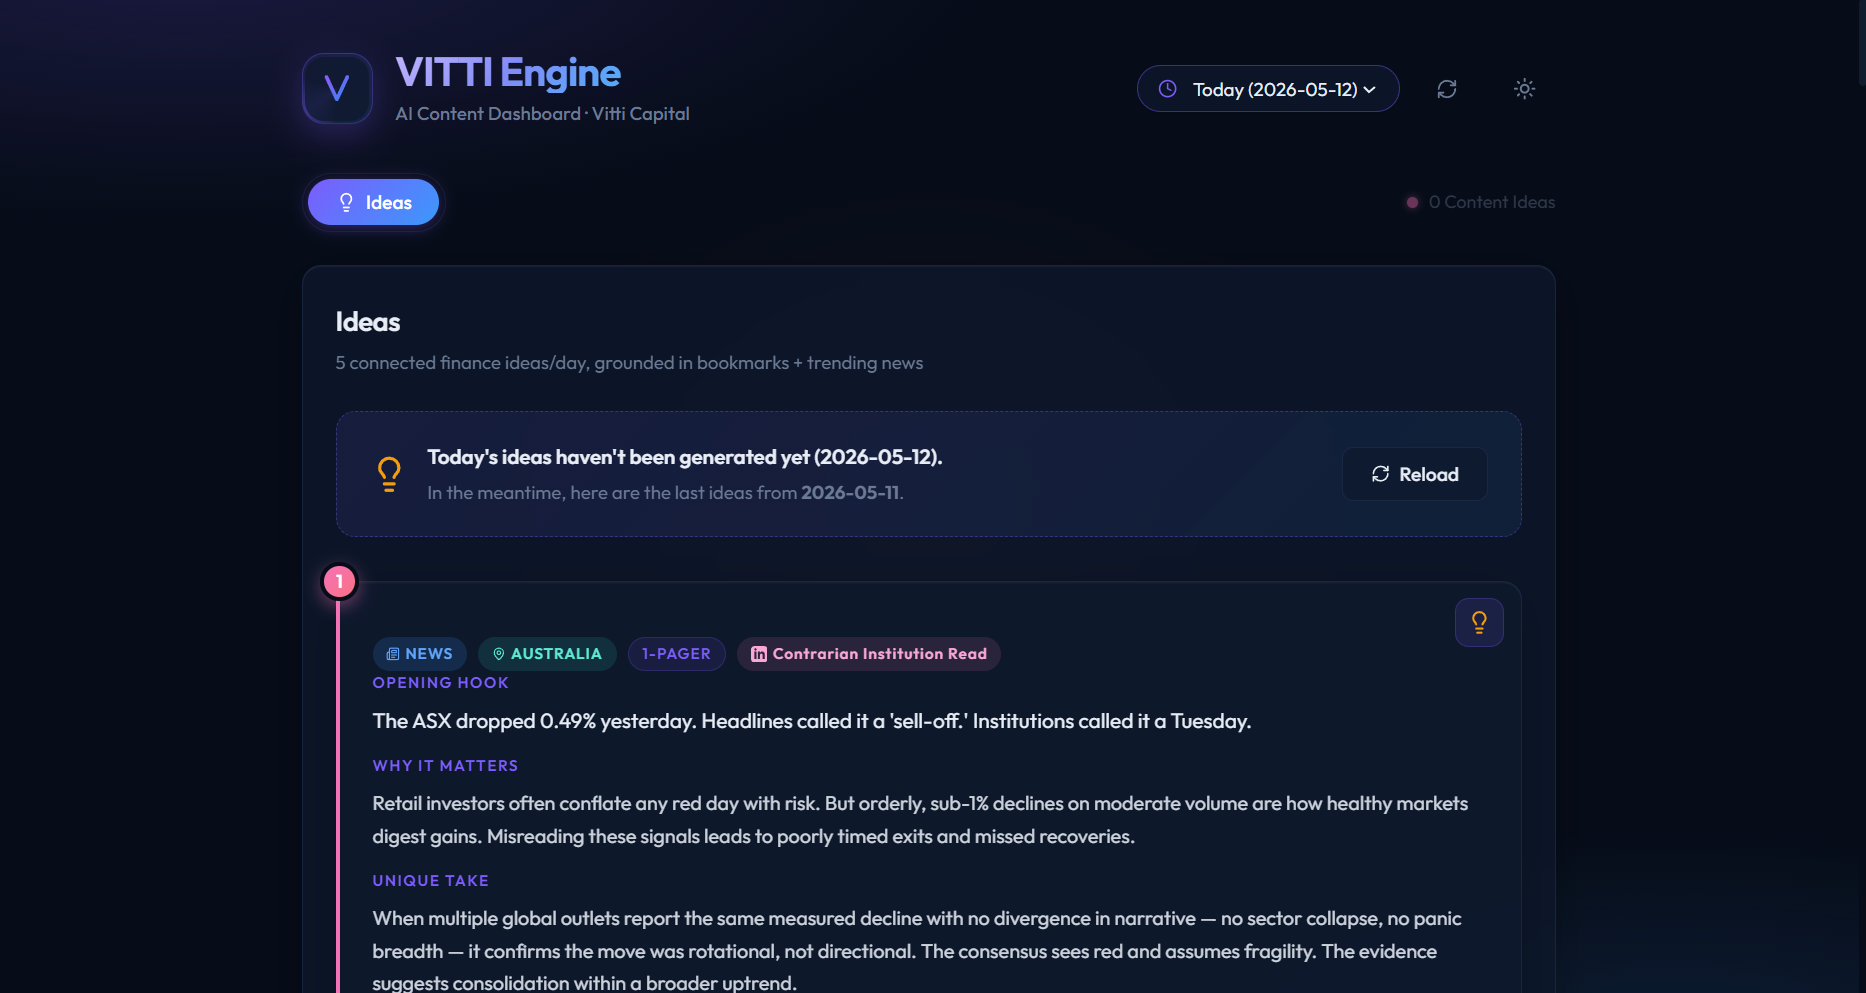
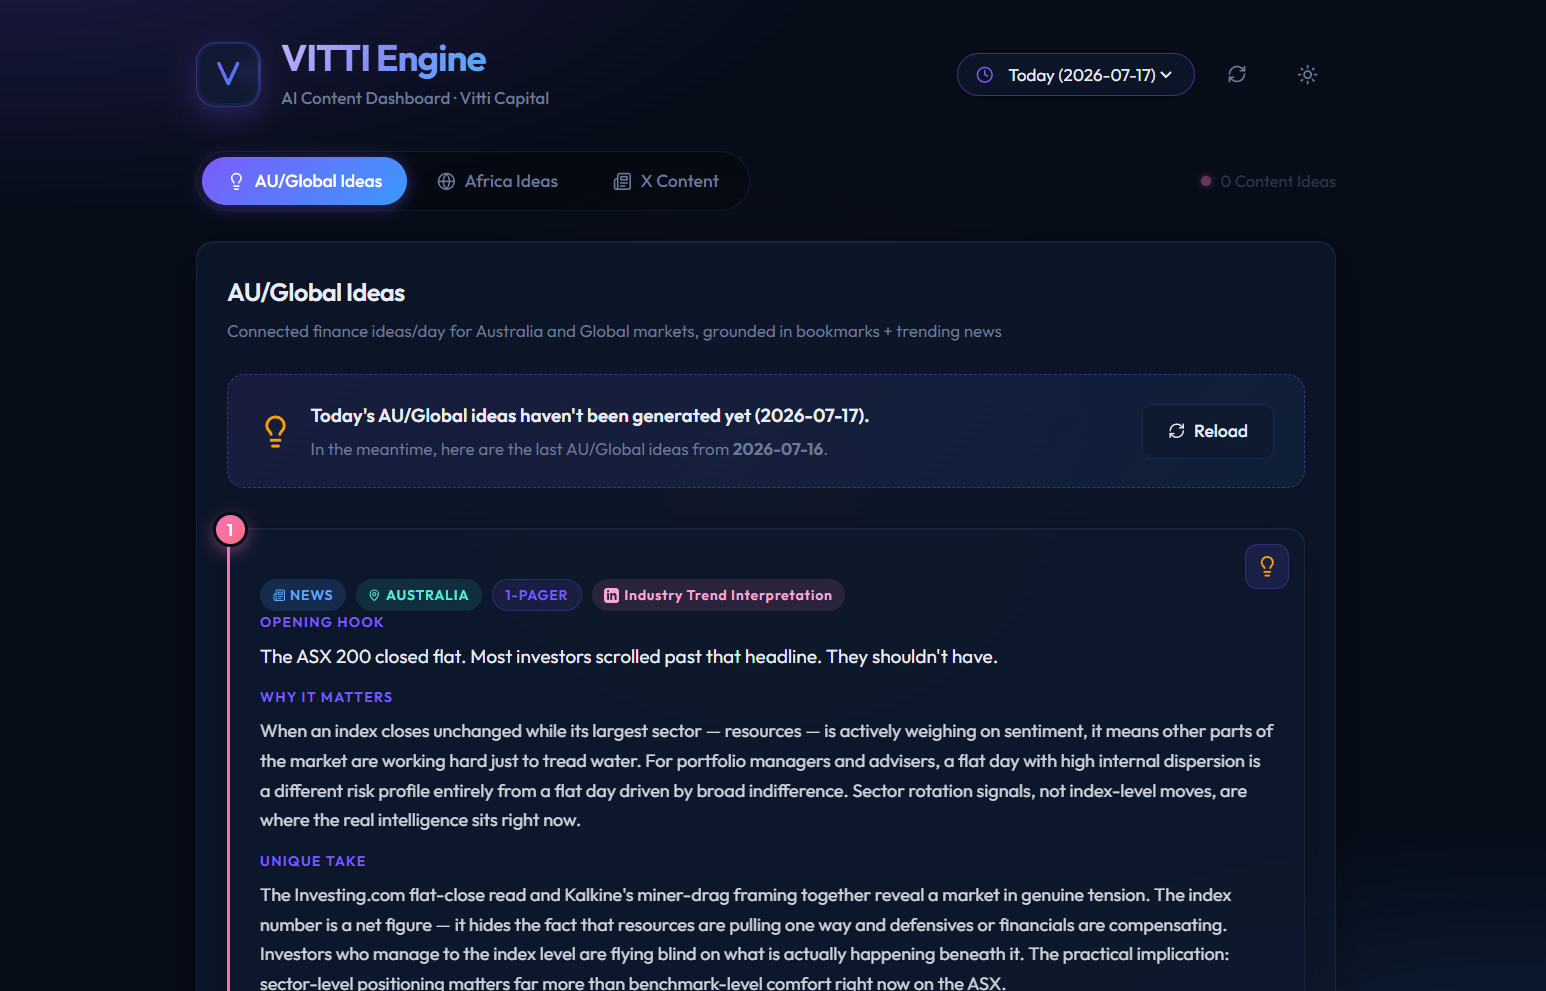
chore: update dashboard card images; switch bot image to png

diff --git a/src/main.js b/src/main.js
@@ -216,7 +216,7 @@ const PROJECTS = [
     name: 'VITTI Bot',
     tagline: "See today's option trades, executed by the BOT.",
     url: import.meta.env.VITE_BOT_URL || '',
-    image: '/bot.jpeg',
+    image: '/bot.png',
   },
   {
     id: 'ideas-dashboard',
